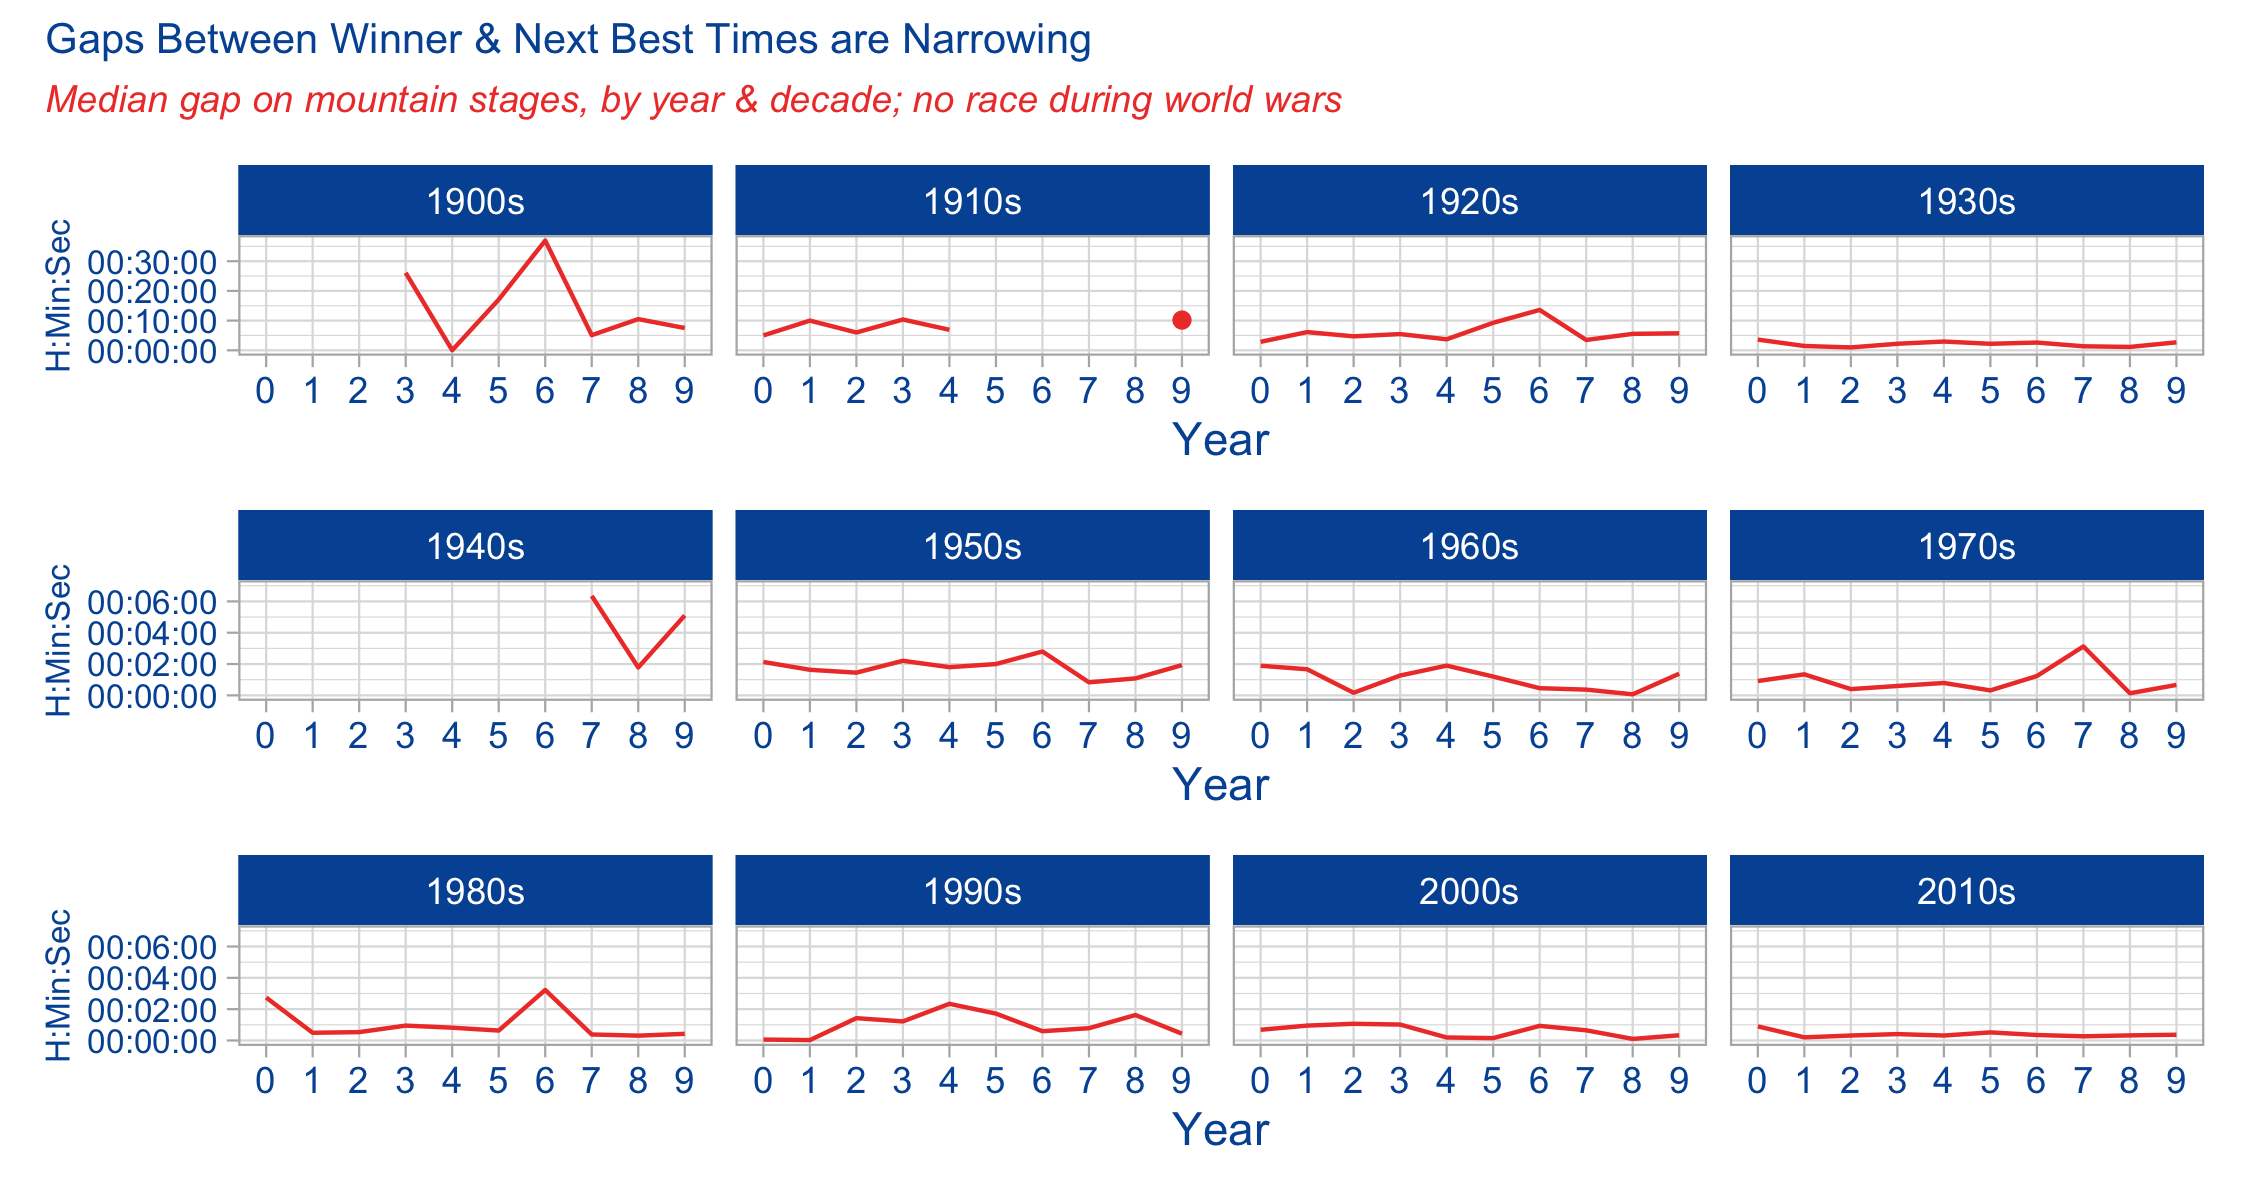
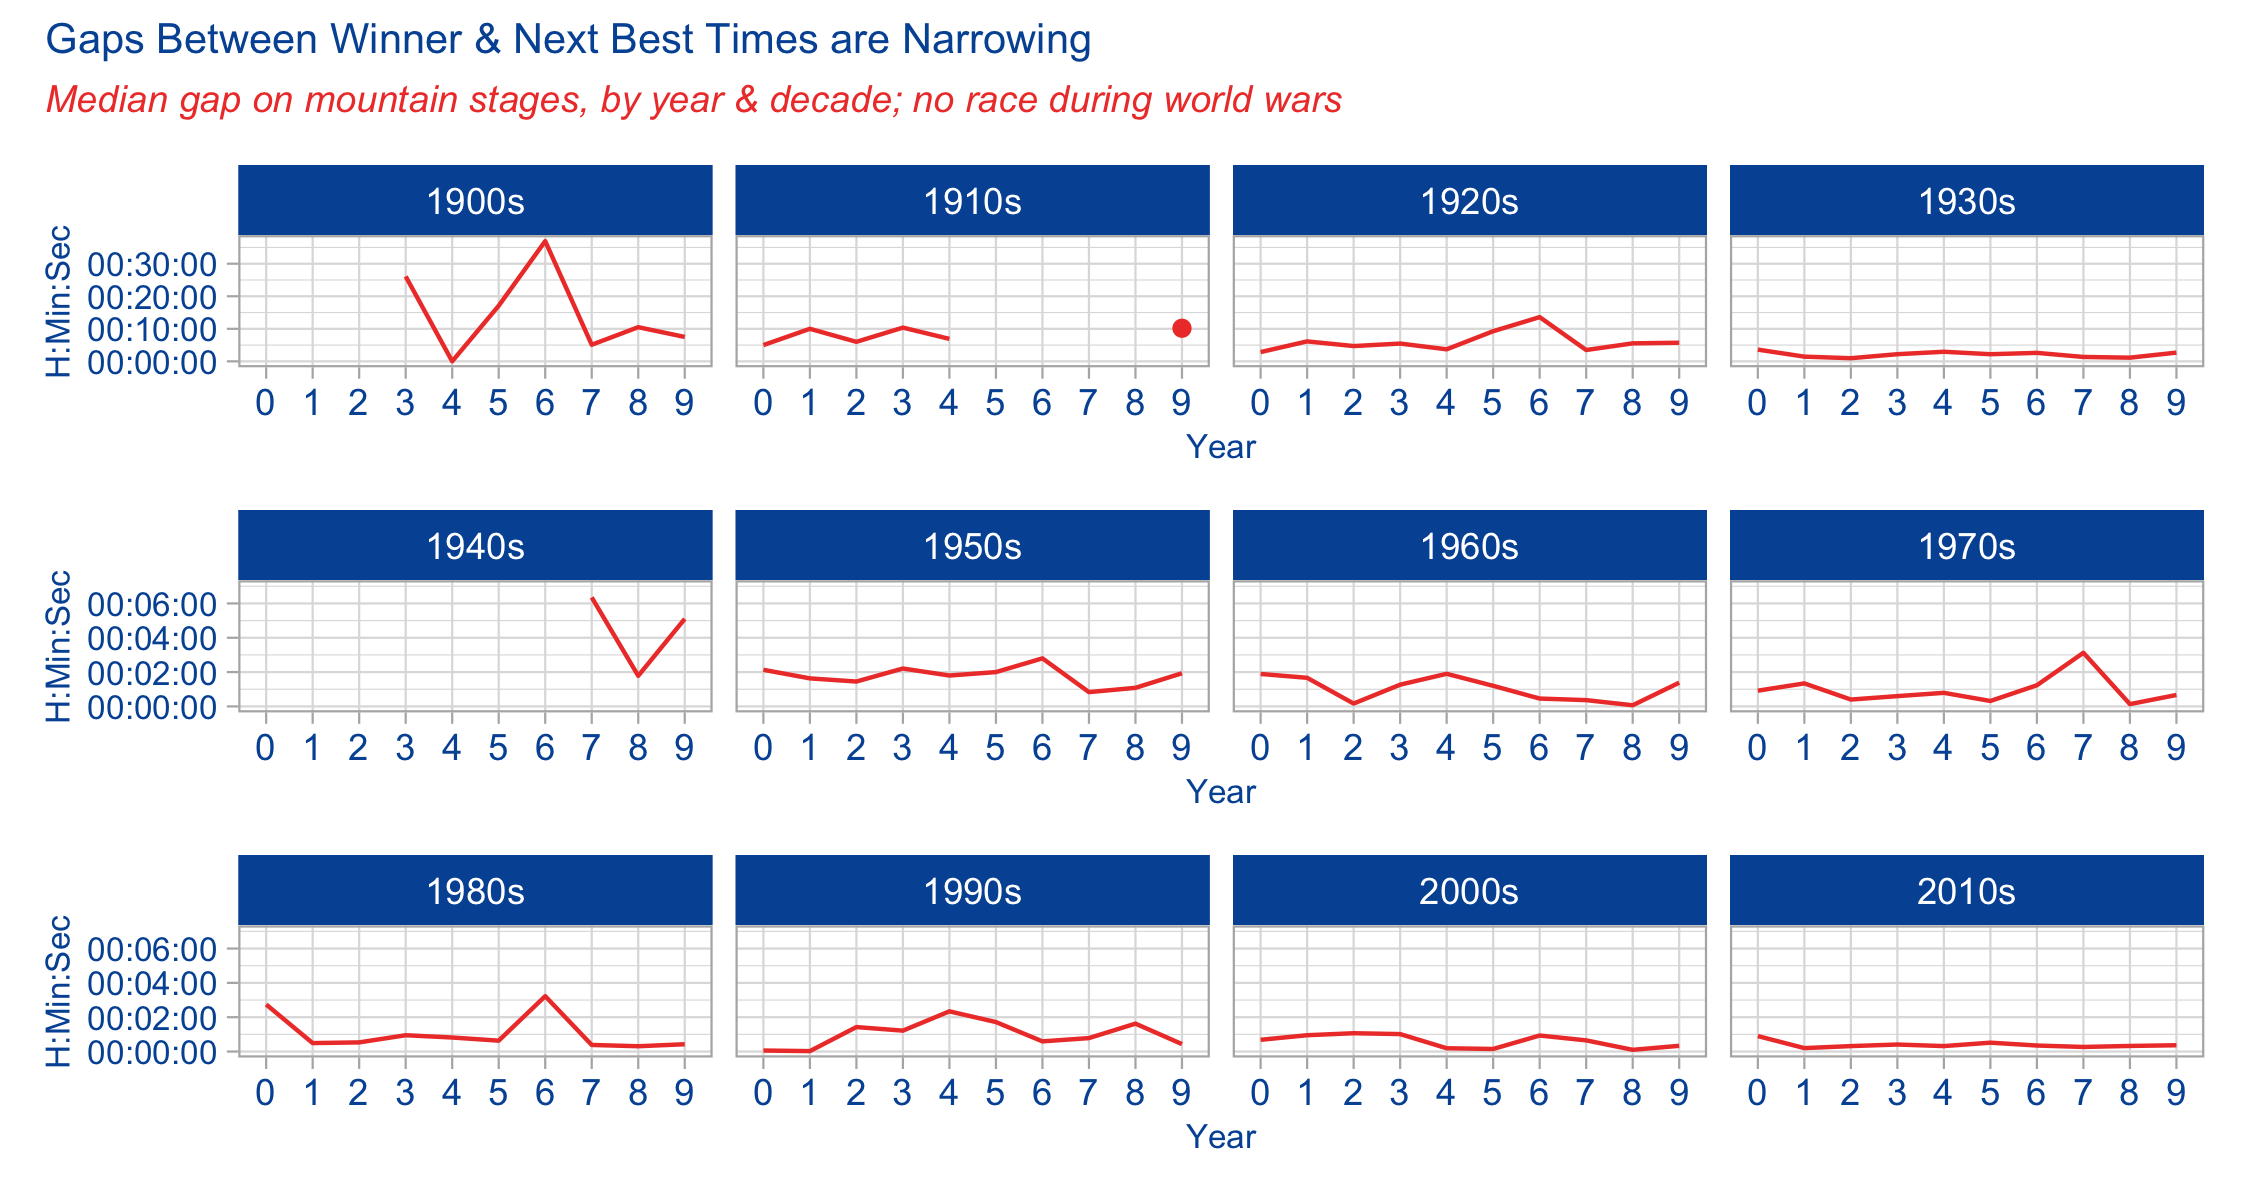
le tour stage 3

diff --git a/2020/tt_2020-04-07_letour/README.md b/2020/tt_2020-04-07_letour/README.md
@@ -583,7 +583,7 @@ gaprangesyrdec %>%
   labs(x = "Year", y = "H:Min:Sec") + 
   facet_grid( ~ race_decade) +
   theme_light() +
-  theme(axis.title.x = element_text(color = "#0055A4"),
+  theme(axis.title.x = element_text(color = "#0055A4", size = 8),
         axis.title.y = element_text(color = "#0055A4", size = 8),
         axis.text.x = element_text(color = "#0055A4"),
         axis.text.y = element_text(color = "#0055A4", size = 8),
@@ -600,7 +600,7 @@ gaprangesyrdec %>%
   labs(x = "Year", y = "H:Min:Sec") + 
   facet_grid( ~ race_decade) +
   theme_light() +
-  theme(axis.title.x = element_text(color = "#0055A4"),
+  theme(axis.title.x = element_text(color = "#0055A4", size = 8),
         axis.title.y = element_text(color = "#0055A4", size = 8),
         axis.text.x = element_text(color = "#0055A4"),
         axis.text.y = element_text(color = "#0055A4", size = 8),
@@ -617,7 +617,7 @@ gaprangesyrdec %>%
   labs(x = "Year", y = "H:Min:Sec") + 
   facet_grid( ~ race_decade) +
   theme_light() +
-  theme(axis.title.x = element_text(color = "#0055A4"),
+  theme(axis.title.x = element_text(color = "#0055A4", size = 8),
         axis.title.y = element_text(color = "#0055A4" , size = 8),
         axis.text.x = element_text(color = "#0055A4"),
         axis.text.y = element_text(color = "#0055A4", size = 8),
@@ -670,10 +670,10 @@ plot_dec_mtla1 <-
   labs(x = "Year", y = "H:Min:Sec") + 
   facet_grid( ~ race_decade) +
   theme_light() +
-  theme(axis.title.x = element_text(color = "#0055A4"),
-        axis.title.y = element_text(color = "#0055A4", size = 8),
+  theme(axis.title.x = element_text(color = "#0055A4", size = 7),
+        axis.title.y = element_text(color = "#0055A4", size = 7),
         axis.text.x = element_text(color = "#0055A4"),
-        axis.text.y = element_text(color = "#0055A4", size = 8),
+        axis.text.y = element_text(color = "#0055A4", size = 7),
         strip.background = element_rect(fill = "#0055A4"))
 
 plot_dec_mtla2 <-
@@ -687,10 +687,10 @@ plot_dec_mtla2 <-
   labs(x = "Year", y = "H:Min:Sec") + 
   facet_grid( ~ race_decade) +
   theme_light() +
-  theme(axis.title.x = element_text(color = "#0055A4"),
-        axis.title.y = element_text(color = "#0055A4", size = 8),
+  theme(axis.title.x = element_text(color = "#0055A4", size = 7),
+        axis.title.y = element_text(color = "#0055A4", size = 7),
         axis.text.x = element_text(color = "#0055A4"),
-        axis.text.y = element_text(color = "#0055A4", size = 8),
+        axis.text.y = element_text(color = "#0055A4", size = 7),
         strip.background = element_rect(fill = "#0055A4"))
 
 plot_dec_mtla3 <-
@@ -704,10 +704,10 @@ plot_dec_mtla3 <-
   labs(x = "Year", y = "H:Min:Sec") + 
   facet_grid( ~ race_decade) +
   theme_light() +
-  theme(axis.title.x = element_text(color = "#0055A4"),
-        axis.title.y = element_text(color = "#0055A4", size = 8),
+  theme(axis.title.x = element_text(color = "#0055A4", size = 7),
+        axis.title.y = element_text(color = "#0055A4", size = 7),
         axis.text.x = element_text(color = "#0055A4"),
-        axis.text.y = element_text(color = "#0055A4", size = 8),
+        axis.text.y = element_text(color = "#0055A4", size = 7),
         strip.background = element_rect(fill = "#0055A4"))
 
 plot_dec_mtla1 / plot_dec_mtla2 / plot_dec_mtla3  +
